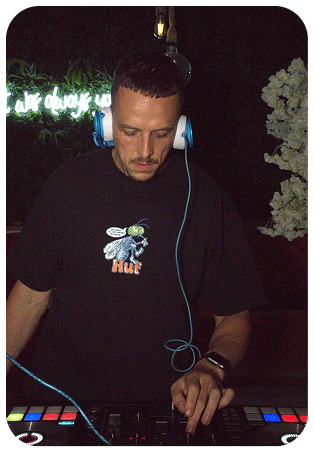
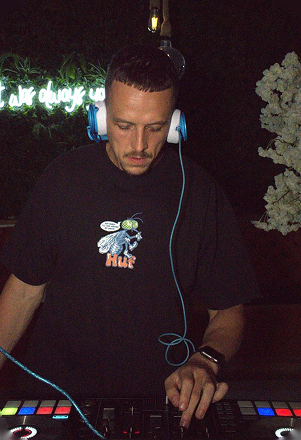
fix(hero): make hero collage card borders clean 1px hairline and convert images to full-bleed

diff --git a/src/components/home/HeroCardItem.tsx b/src/components/home/HeroCardItem.tsx
@@ -20,7 +20,7 @@ export default function HeroCardItem({
   aspectClass,
   sizes,
   priority = false,
-  borderClass = "border-[3px] border-hairline",
+  borderClass = "border border-hairline",
   shapeRoundedClass = "rounded-[16.6px]",
   className = "",
   children,
@@ -80,7 +80,7 @@ export default function HeroCardItem({
           fill
           sizes={sizes}
           priority={priority}
-          className="object-cover scale-[1.06] transition-transform duration-500 ease-out group-hover:scale-[1.10]"
+          className="object-cover transition-transform duration-500 ease-out group-hover:scale-105"
         />
 
         {/* Video: Plays inside the shape on hover or click */}

diff --git a/src/components/home/Hero.tsx b/src/components/home/Hero.tsx
@@ -70,7 +70,7 @@ export default function Hero() {
                     sizes="50vw"
                     borderClass="border-0"
                     shapeRoundedClass="rounded-t-[14px]"
-                    className="overflow-hidden rounded-[16.6px] border-[2px] border-hairline shadow-lg bg-card"
+                    className="overflow-hidden rounded-[16.6px] border border-hairline shadow-lg bg-card"
                   >
                     <div className="p-2.5 bg-surface-2/95">
                       <p className="font-display text-[10.5px] font-semibold text-foreground">{card.title}</p>
